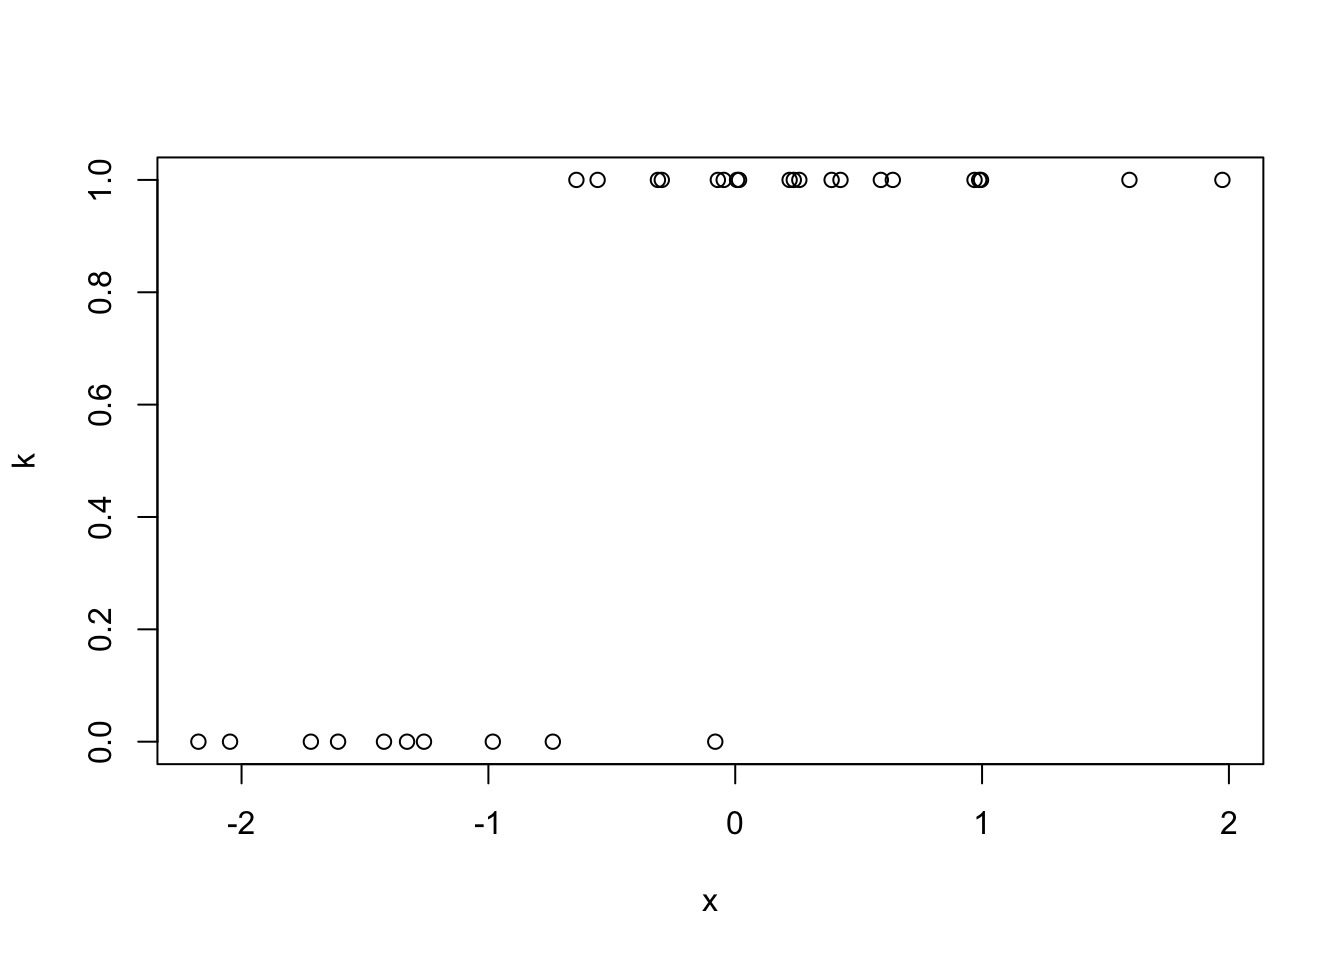
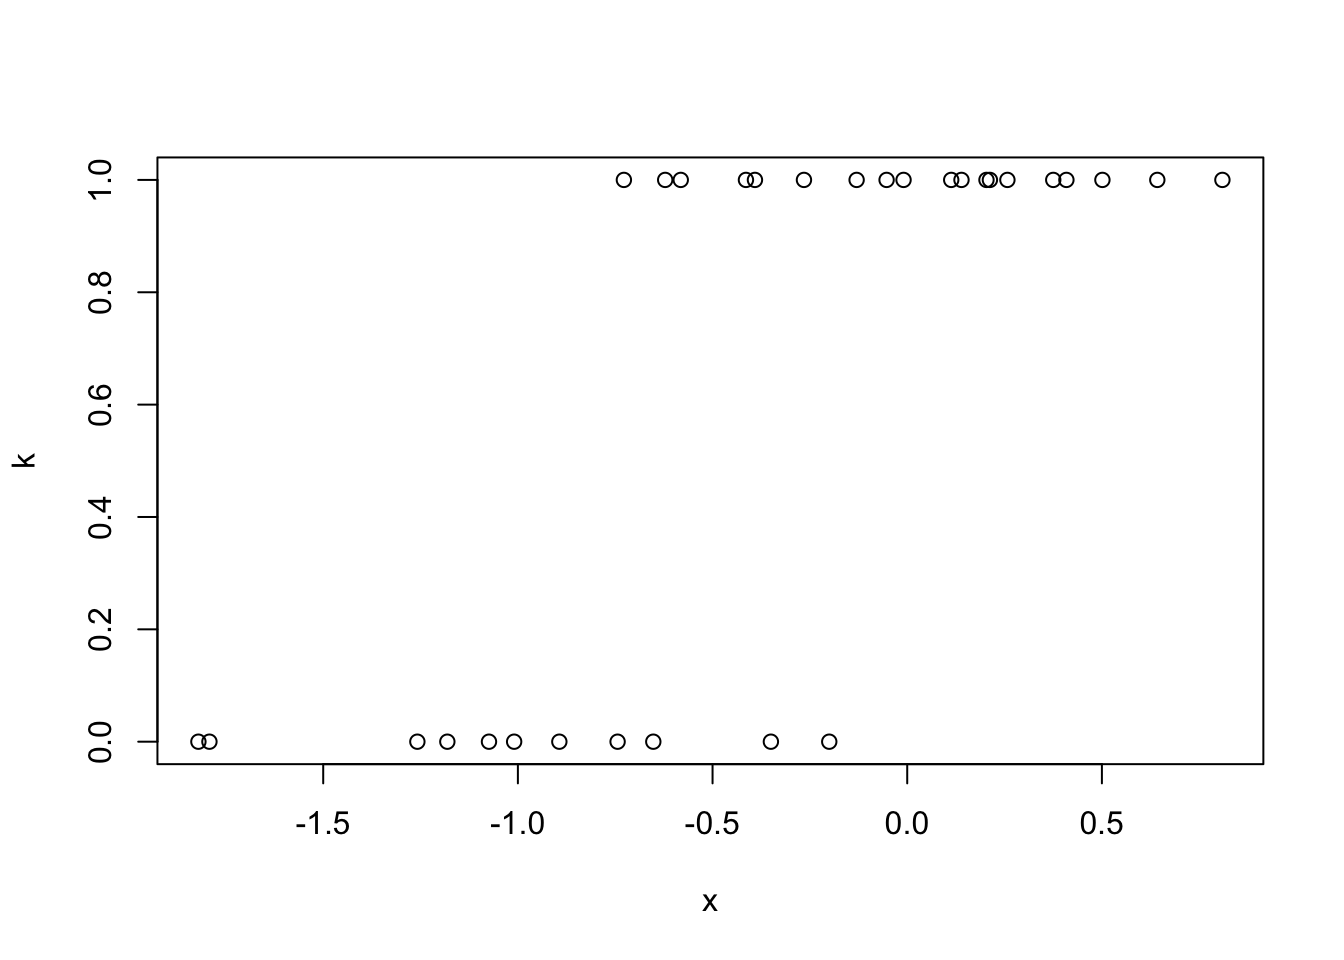
updating new workshop
fixing spelling

diff --git a/docs/bootcamp-r-series-010-intro-to-r-pt1.html b/docs/bootcamp-r-series-010-intro-to-r-pt1.html
@@ -934,24 +934,24 @@ integer (most of the time).</p>
 <pre class="r"><code># most often used for categorical observations
 pets &lt;- c(&quot;cat&quot;, &quot;dog&quot;, &quot;lizard&quot;, &quot;raccoon&quot;)
 (pet_obs &lt;- sample(pets, 20, TRUE))</code></pre>
-<pre><code>##  [1] &quot;lizard&quot;  &quot;dog&quot;     &quot;lizard&quot;  &quot;dog&quot;     &quot;lizard&quot;  &quot;raccoon&quot; &quot;dog&quot;    
-##  [8] &quot;lizard&quot;  &quot;cat&quot;     &quot;raccoon&quot; &quot;raccoon&quot; &quot;cat&quot;     &quot;dog&quot;     &quot;raccoon&quot;
-## [15] &quot;lizard&quot;  &quot;raccoon&quot; &quot;lizard&quot;  &quot;cat&quot;     &quot;lizard&quot;  &quot;lizard&quot;</code></pre>
+<pre><code>##  [1] &quot;raccoon&quot; &quot;raccoon&quot; &quot;cat&quot;     &quot;cat&quot;     &quot;dog&quot;     &quot;cat&quot;     &quot;dog&quot;    
+##  [8] &quot;lizard&quot;  &quot;dog&quot;     &quot;lizard&quot;  &quot;cat&quot;     &quot;cat&quot;     &quot;dog&quot;     &quot;lizard&quot; 
+## [15] &quot;lizard&quot;  &quot;dog&quot;     &quot;raccoon&quot; &quot;raccoon&quot; &quot;raccoon&quot; &quot;dog&quot;</code></pre>
 <pre class="r"><code># Turn the character vector into a set of factors
 pet_fct &lt;- factor(pet_obs)
 pet_fct</code></pre>
-<pre><code>##  [1] lizard  dog     lizard  dog     lizard  raccoon dog     lizard  cat    
-## [10] raccoon raccoon cat     dog     raccoon lizard  raccoon lizard  cat    
-## [19] lizard  lizard 
+<pre><code>##  [1] raccoon raccoon cat     cat     dog     cat     dog     lizard  dog    
+## [10] lizard  cat     cat     dog     lizard  lizard  dog     raccoon raccoon
+## [19] raccoon dog    
 ## Levels: cat dog lizard raccoon</code></pre>
 <pre class="r"><code># can be converted to an integer vector
 as.integer(pet_fct)</code></pre>
-<pre><code>##  [1] 3 2 3 2 3 4 2 3 1 4 4 1 2 4 3 4 3 1 3 3</code></pre>
+<pre><code>##  [1] 4 4 1 1 2 1 2 3 2 3 1 1 2 3 3 2 4 4 4 2</code></pre>
 <pre class="r"><code># can be converted to a character vector
 as.character(pet_fct)</code></pre>
-<pre><code>##  [1] &quot;lizard&quot;  &quot;dog&quot;     &quot;lizard&quot;  &quot;dog&quot;     &quot;lizard&quot;  &quot;raccoon&quot; &quot;dog&quot;    
-##  [8] &quot;lizard&quot;  &quot;cat&quot;     &quot;raccoon&quot; &quot;raccoon&quot; &quot;cat&quot;     &quot;dog&quot;     &quot;raccoon&quot;
-## [15] &quot;lizard&quot;  &quot;raccoon&quot; &quot;lizard&quot;  &quot;cat&quot;     &quot;lizard&quot;  &quot;lizard&quot;</code></pre>
+<pre><code>##  [1] &quot;raccoon&quot; &quot;raccoon&quot; &quot;cat&quot;     &quot;cat&quot;     &quot;dog&quot;     &quot;cat&quot;     &quot;dog&quot;    
+##  [8] &quot;lizard&quot;  &quot;dog&quot;     &quot;lizard&quot;  &quot;cat&quot;     &quot;cat&quot;     &quot;dog&quot;     &quot;lizard&quot; 
+## [15] &quot;lizard&quot;  &quot;dog&quot;     &quot;raccoon&quot; &quot;raccoon&quot; &quot;raccoon&quot; &quot;dog&quot;</code></pre>
 </div>
 <div id="overview-of-objects-and-data-structures"
 class="section level2">
@@ -1372,7 +1372,7 @@ lm(y ~ x) # slope-intercept model. Same as `lm(y ~ 1 + x)`</code></pre>
 ## 
 ## Coefficients:
 ## (Intercept)            x  
-##       2.076        3.012</code></pre>
+##       2.024        2.877</code></pre>
 <pre class="r"><code>lm(y ~ 0 + x) # slope only model (no intercept)</code></pre>
 <pre><code>## 
 ## Call:
@@ -1380,7 +1380,7 @@ lm(y ~ x) # slope-intercept model. Same as `lm(y ~ 1 + x)`</code></pre>
 ## 
 ## Coefficients:
 ##     x  
-## 2.634</code></pre>
+## 1.633</code></pre>
 <p>Can also fit a generalized linear model using (you guessed it) the
 <code>glm()</code> function.</p>
 <pre class="r"><code># logit(theta) = 3x + 2
@@ -1394,11 +1394,11 @@ glm(k ~ 1 + x, family = binomial(link = &quot;logit&quot;))</code></pre>
 ## 
 ## Coefficients:
 ## (Intercept)            x  
-##       3.001        4.786  
+##       2.948        5.055  
 ## 
 ## Degrees of Freedom: 29 Total (i.e. Null);  28 Residual
-## Null Deviance:       38.19 
-## Residual Deviance: 10.77     AIC: 14.77</code></pre>
+## Null Deviance:       39.43 
+## Residual Deviance: 17.38     AIC: 21.38</code></pre>
 </div>
 <div id="summarizing-data-frames-and-models" class="section level2">
 <h2>Summarizing data frames and models</h2>
@@ -1408,17 +1408,17 @@ models, and it is the <code>summary()</code> function.</p>
 z &lt;- rnorm(50)
 summary(z)</code></pre>
 <pre><code>##    Min. 1st Qu.  Median    Mean 3rd Qu.    Max. 
-## -2.0113 -0.9857 -0.1241 -0.1232  0.6994  1.8483</code></pre>
+## -2.1173 -1.0992 -0.2891 -0.1582  0.4905  2.5211</code></pre>
 <pre class="r"><code># summarize a data frame
 df &lt;- data.frame(a = 1L:10L, b = rexp(10), c = factor(sample(c(&quot;a&quot;, &quot;b&quot;, &quot;c&quot;), 10, TRUE)))
 summary(df)</code></pre>
 <pre><code>##        a               b           c    
-##  Min.   : 1.00   Min.   :0.03359   a:6  
-##  1st Qu.: 3.25   1st Qu.:0.40492   b:3  
-##  Median : 5.50   Median :0.90672   c:1  
-##  Mean   : 5.50   Mean   :1.54575        
-##  3rd Qu.: 7.75   3rd Qu.:1.35103        
-##  Max.   :10.00   Max.   :6.13911</code></pre>
+##  Min.   : 1.00   Min.   :0.07537   a:2  
+##  1st Qu.: 3.25   1st Qu.:0.38077   b:1  
+##  Median : 5.50   Median :0.55756   c:7  
+##  Mean   : 5.50   Mean   :0.64401        
+##  3rd Qu.: 7.75   3rd Qu.:0.87110        
+##  Max.   :10.00   Max.   :1.45466</code></pre>
 <pre class="r"><code># summarize a linear model
 fit &lt;- lm(y ~ 1 + x)
 summary(fit)</code></pre>
@@ -1428,18 +1428,18 @@ summary(fit)</code></pre>
 ## 
 ## Residuals:
 ##      Min       1Q   Median       3Q      Max 
-## -1.28853 -0.41091  0.00689  0.32983  1.21636 
+## -1.19226 -0.11523  0.04622  0.33933  0.90945 
 ## 
 ## Coefficients:
 ##             Estimate Std. Error t value Pr(&gt;|t|)    
-## (Intercept)   2.0763     0.1062   19.55   &lt;2e-16 ***
-## x             3.0121     0.1014   29.70   &lt;2e-16 ***
+## (Intercept)   2.0240     0.1097   18.45   &lt;2e-16 ***
+## x             2.8768     0.1453   19.80   &lt;2e-16 ***
 ## ---
 ## Signif. codes:  0 &#39;***&#39; 0.001 &#39;**&#39; 0.01 &#39;*&#39; 0.05 &#39;.&#39; 0.1 &#39; &#39; 1
 ## 
-## Residual standard error: 0.5711 on 28 degrees of freedom
-## Multiple R-squared:  0.9692, Adjusted R-squared:  0.9681 
-## F-statistic: 881.8 on 1 and 28 DF,  p-value: &lt; 2.2e-16</code></pre>
+## Residual standard error: 0.5323 on 28 degrees of freedom
+## Multiple R-squared:  0.9333, Adjusted R-squared:  0.9309 
+## F-statistic: 391.9 on 1 and 28 DF,  p-value: &lt; 2.2e-16</code></pre>
 <p>Notice that it outputs differently for different input objects. This
 is because <code>summary()</code> is a <em>generic</em> function,
 meaning that it has multiple <em>methods</em> defined for different R

diff --git a/docs/biomarker_hunt_2026-08.html b/docs/biomarker_hunt_2026-08.html
@@ -441,10 +441,11 @@ students.</p>
 <ul>
 <li>Basic R programming experience</li>
 <li>Introductory understanding of statistics</li>
-<li>Interest in working with data and solving open-ended problems But
-prior experience with high-performance computing (HPC), cloud computing,
-bioinformatics, transcriptomics, or proteomics is NOT required.</li>
+<li>Interest in working with data and solving open-ended problems</li>
 </ul>
+<p>But prior experience with high-performance computing (HPC), cloud
+computing, bioinformatics, transcriptomics, or proteomics is NOT
+required.</p>
 <p><strong>Important Information</strong></p>
 <p>Please note: Once your registration has been confirmed, we reserve a
 seat, housing, meals, and training materials specifically for you. If
@@ -461,8 +462,8 @@ missed class activities.</p>
 should be comfortable with basic R concepts such as importing data,
 working with data frames, and creating simple plots. Additional
 preparation resources will be provided before the program. If you have
-not experience with R but would like to participate, please reach out
-UNR libraries will be offering a <em>R Introductory</em> workshop the
+no experience with R but would like to participate, please reach out;
+UNR libraries will be offering an <em>R Introductory</em> workshop the
 week prior.</p>
 <p><br></p>
 </div>
@@ -472,7 +473,7 @@ to apply</h3>
 <p>Complete and submit the online application. Applications will be
 reviewed on a rolling basis until the program reaches capacity. If
 circumstances change and you can no longer participate, please inform us
-as soo as possible, so that a reserved spot can be passed on to another
+as soon as possible, so that a reserved spot can be passed on to another
 student.</p>
 <p><strong>Application materials</strong></p>
 <ul>
@@ -492,12 +493,12 @@ Now!</strong></a></span>
 <p><br></p>
 </div>
 <div id="program-details" class="section level3">
-<h3><img src="media/img/icon_analysis.png" style="width: 80px; float: left; margin: 0px 20px 0px 0px;">Program
+<h3><img src="media/img/icon_Rviz.png" style="width: 80px; float: left; margin: 0px 20px 0px 0px;">Program
 Details</h3>
 <p>The program runs from <strong>Thursday, August 27 at 4pm through
 Sunday, August 30, 2036 at 3pm</strong>. <em>Please note that this
-training event is a full-time commitment and we will be staying the
-entire at the Lake Tahoe Campus</em></p>
+training event is a full-time commitment, and we will be staying the
+entire time at the Lake Tahoe Campus</em></p>
 <p>The Biomarker Hunt is designed to simulate the early stages of a real
 data-intensive research project. Short instructional sessions will
 introduce key concepts and tools, but most of the program will focus on
@@ -532,8 +533,8 @@ be requested. </strong></p>
 <h3><img src="media/img/icon_lake.png" style="width: 80px; float: left; margin: 0px 20px 0px 0px;">Where
 &amp; When</h3>
 <p>The program will be held at the <strong>University of Nevada, Reno at
-Lake Tahoe campus in Incline Village, Nevada</strong>. <!-- <br> --></p>
-<!-- ### <img src="media/img/icon_Rviz.png" style="width: 80px; float: left; margin: 0px 20px 0px 0px;">When -->
+Lake Tahoe campus in Incline Village, Nevada</strong>.</p>
+<p><br></p>
 <table class="tg">
 <thead>
 <tr>
@@ -544,7 +545,7 @@ Module
 Day
 </th>
 <th>
-Time
+Start Time
 </th>
 </tr>
 </thead>
@@ -554,7 +555,7 @@ Time
 Day 1: Welcome + Intro to R
 </td>
 <td>
-Thurday 8/27/26
+Thursday 8/27/26
 </td>
 <td>
 4pm Welcome at the Lake Tahoe Campus
@@ -568,7 +569,7 @@ Day 2: Explore: Data, Study Design, and Visualization
 Friday 8/28/26
 </td>
 <td>
-8:30pm - 9:00pm
+9am
 </td>
 </tr>
 <tr>
@@ -579,7 +580,7 @@ Day 3: Analyze: RNA-seq, Proteomics, and Team Investigation
 Saturday 8/29/26
 </td>
 <td>
-8:30pm - 9:00pm
+9am
 </td>
 </tr>
 <tr>
@@ -587,29 +588,28 @@ Saturday 8/29/26
 Day 4: Discover: Final Analysis and 3-Minute Flash Talks
 </td>
 <td>
-Thursday 8/14/25
+Sunday 8/30/26
 </td>
 <td>
-8:30am – 3pm
+9am
 </td>
 </tr>
 </tbody>
 </table>
-<p><em>Days are long, but there are breaks build in.</em></p>
+<p><em>Days will be long, but there are breaks build in.</em> <br></p>
 </div>
-<div id="logistics" class="section level3">
-<h3>Logistics</h3>
+<div id="logistics" class="section level2">
+<h2>Logistics</h2>
 <p>Dorm rooms (triple occupancy) at Lake Tahoe will be provided to
 <strong>all</strong> students.</p>
-<p>We are not offering travel arrangement to Lake Tahoe for this
+<p>We are not offering travel arrangements to Lake Tahoe for this
 program. Shall you be in need for travel support, please reach out to <a
 href="mailto:nbc_training@unr.edu"
 class="email">nbc_training@unr.edu</a>. If you are participating from
-ant NSHE institution but UNR, please reach out to your local NV INBRE
-representative to inquire travel support.</p>
+any NSHE institution but UNR, please reach out to your local NV INBRE
+representative to inquire about travel support.</p>
 <p>More details about the program will be shared upon acceptance.
 <br></p>
-</div>
 <div id="questions" class="section level3">
 <h3>Questions</h3>
 <p>Reach out at any time, email <a href="mailto:nbc_training@unr.edu"
@@ -623,16 +623,17 @@ class="email">nbc_training@unr.edu</a> or call (775) 784-4359.</p>
 <ul>
 <li>Juli Petereit, PhD</li>
 <li>Cassandra Hui, PhD</li>
-<li>Hans Vaseqez-Gross, PhD</li>
+<li>Hans Vasquez-Gross, PhD</li>
 </ul>
 </div>
-<div id="acknowlegement" class="section level3">
-<h3>Acknowlegement</h3>
+<div id="acknowledgement" class="section level3">
+<h3>Acknowledgement</h3>
 <p>This bootcamp is made possible by grants from the National Institute
 of General Medical Sciences (GM103440) from the National Institutes of
-Health and and the National Science Foundation (2203236).</p>
+Health and the National Science Foundation (2203236).</p>
 <!-- <img src="media/img/NVINBRE-logo.jpg" style="width: 200px; float: center; margin: 20px 20px 20px 20px;"> -->
 <p><img src="media/img/banner_sponsors.png" style="width: 600px; float: center; margin: 20px 20px 20px 20px;"></p>
+</div>
 </div>
 
 <footer>

diff --git a/docs/bootcamp-r-series-040-tidy.html b/docs/bootcamp-r-series-040-tidy.html
@@ -1967,29 +1967,29 @@ replication</li>
 # notice you do not need the () after the function as you would if executing from consol
 map(df, mean)</code></pre>
 <pre><code>## $a
-## [1] -0.1407237
+## [1] -0.1553209
 ## 
 ## $b
-## [1] 0.4858054
+## [1] 0.09846925
 ## 
 ## $c
-## [1] -0.222714
+## [1] -0.09302744
 ## 
 ## $d
-## [1] 0.1887711</code></pre>
+## [1] -0.2966889</code></pre>
 <pre class="r"><code># can pipe it an input to make the process even easier
 df %&gt;% map(mean)</code></pre>
 <pre><code>## $a
-## [1] -0.1407237
+## [1] -0.1553209
 ## 
 ## $b
-## [1] 0.4858054
+## [1] 0.09846925
 ## 
 ## $c
-## [1] -0.222714
+## [1] -0.09302744
 ## 
 ## $d
-## [1] 0.1887711</code></pre>
+## [1] -0.2966889</code></pre>
 <p>You may have noticed that the output format is not necessarily in the
 format that we might expect. The <code>map()</code> function always
 outputs a list.</p>
@@ -1999,8 +1999,8 @@ of a map function: <code>map_lgl()</code>, <code>map_int()</code>,
 vector of the indicated type (or die trying).</p>
 <pre class="r"><code># Should return a numerical vector rather than a list
 map_dbl(df, mean)</code></pre>
-<pre><code>##          a          b          c          d 
-## -0.1407237  0.4858054 -0.2227140  0.1887711</code></pre>
+<pre><code>##           a           b           c           d 
+## -0.15532085  0.09846925 -0.09302744 -0.29668894</code></pre>
 </div>
 </div>
 

diff --git a/docs/NSC_IntrotoR.html b/docs/NSC_IntrotoR.html
@@ -1120,15 +1120,15 @@ lm(y ~ x) # slope-intercept model. Same as `lm(y ~ 1 + x)`</code></pre>
 ## 
 ## Coefficients:
 ## (Intercept)            x  
-##       2.051        3.033</code></pre>
+##       1.902        2.984</code></pre>
 <pre class="r"><code>lm(y ~ 0 + x) # slope only model (no intercept)</code></pre>
 <pre><code>## 
 ## Call:
 ## lm(formula = y ~ 0 + x)
 ## 
 ## Coefficients:
-##     x  
-## 3.098</code></pre>
+##    x  
+## 3.19</code></pre>
 <div id="practice-time" class="section level3">
 <h3>Practice time!</h3>
 <p>Write a script that creates a linear model relating mpg and cyl of

diff --git a/docs/bootcamp-r-series-020-intro-to-r-pt2.html b/docs/bootcamp-r-series-020-intro-to-r-pt2.html
@@ -595,7 +595,7 @@ switch (stat,
   round = round(x, 2),
   &quot;Default option: no match found&quot;
 )</code></pre>
-<pre><code>## [1] 3.095975</code></pre>
+<pre><code>## [1] 3.160738</code></pre>
 </div>
 </div>
 <div id="the--apply-family-of-functions" class="section level2">
